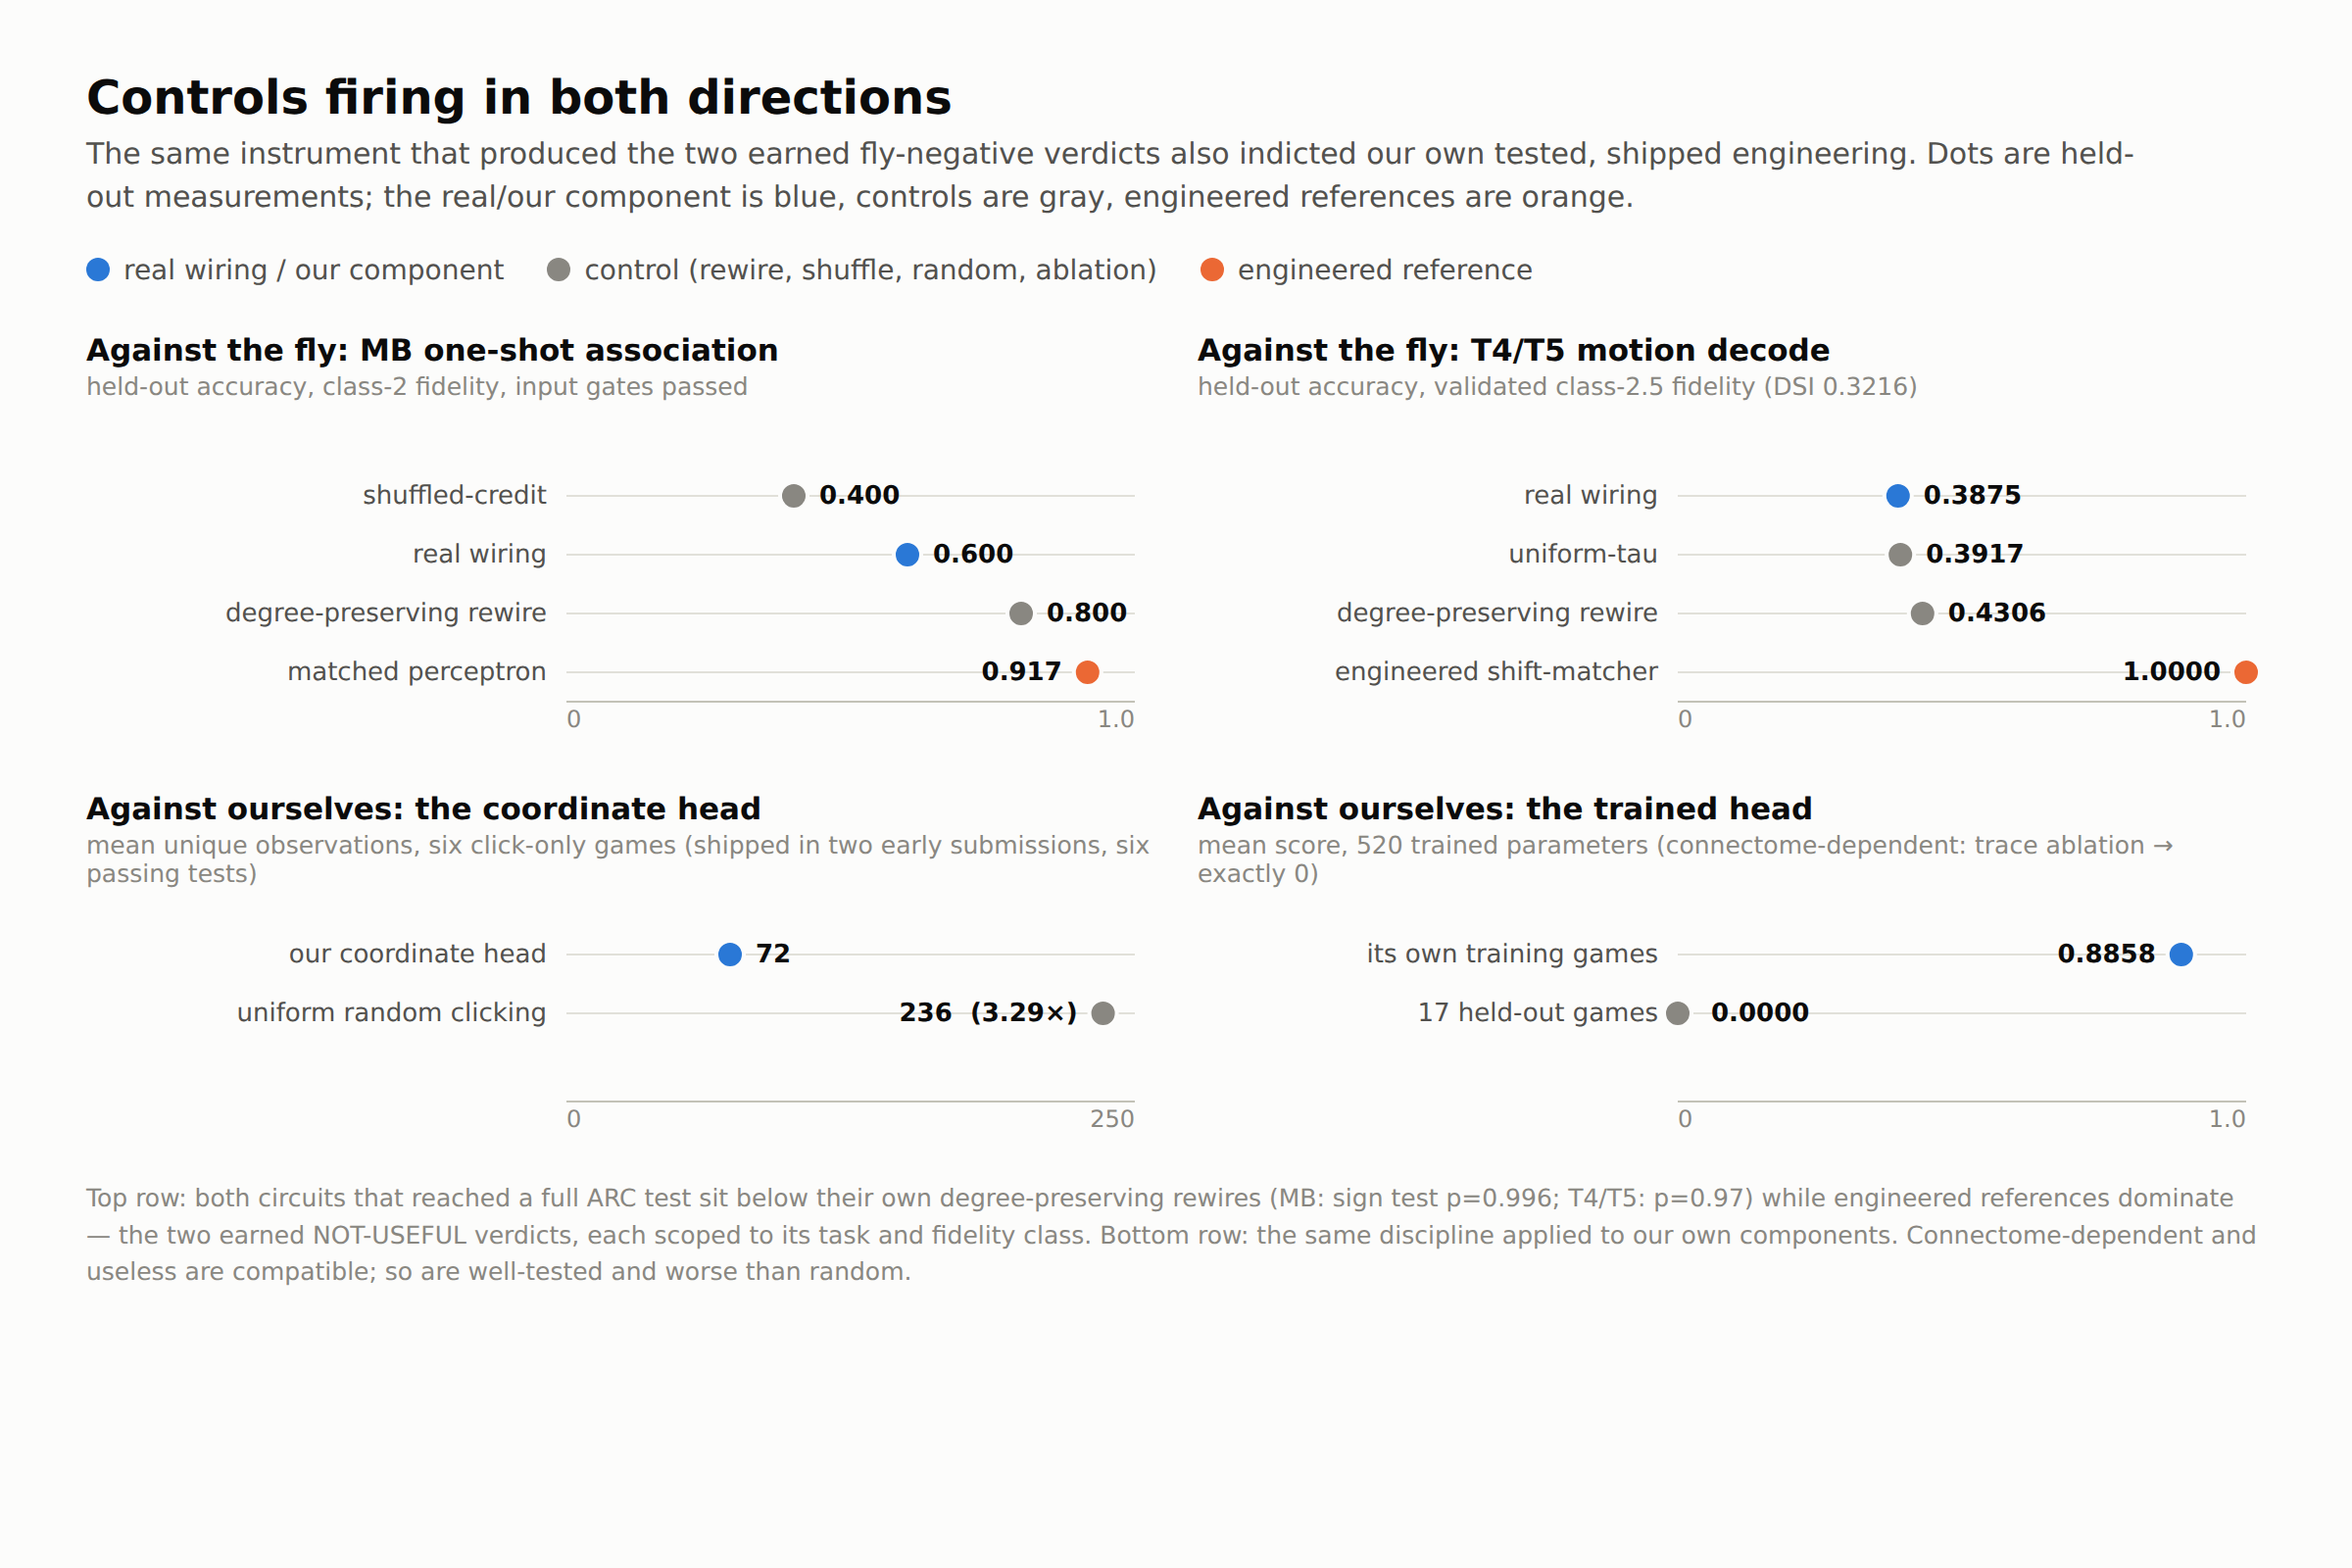
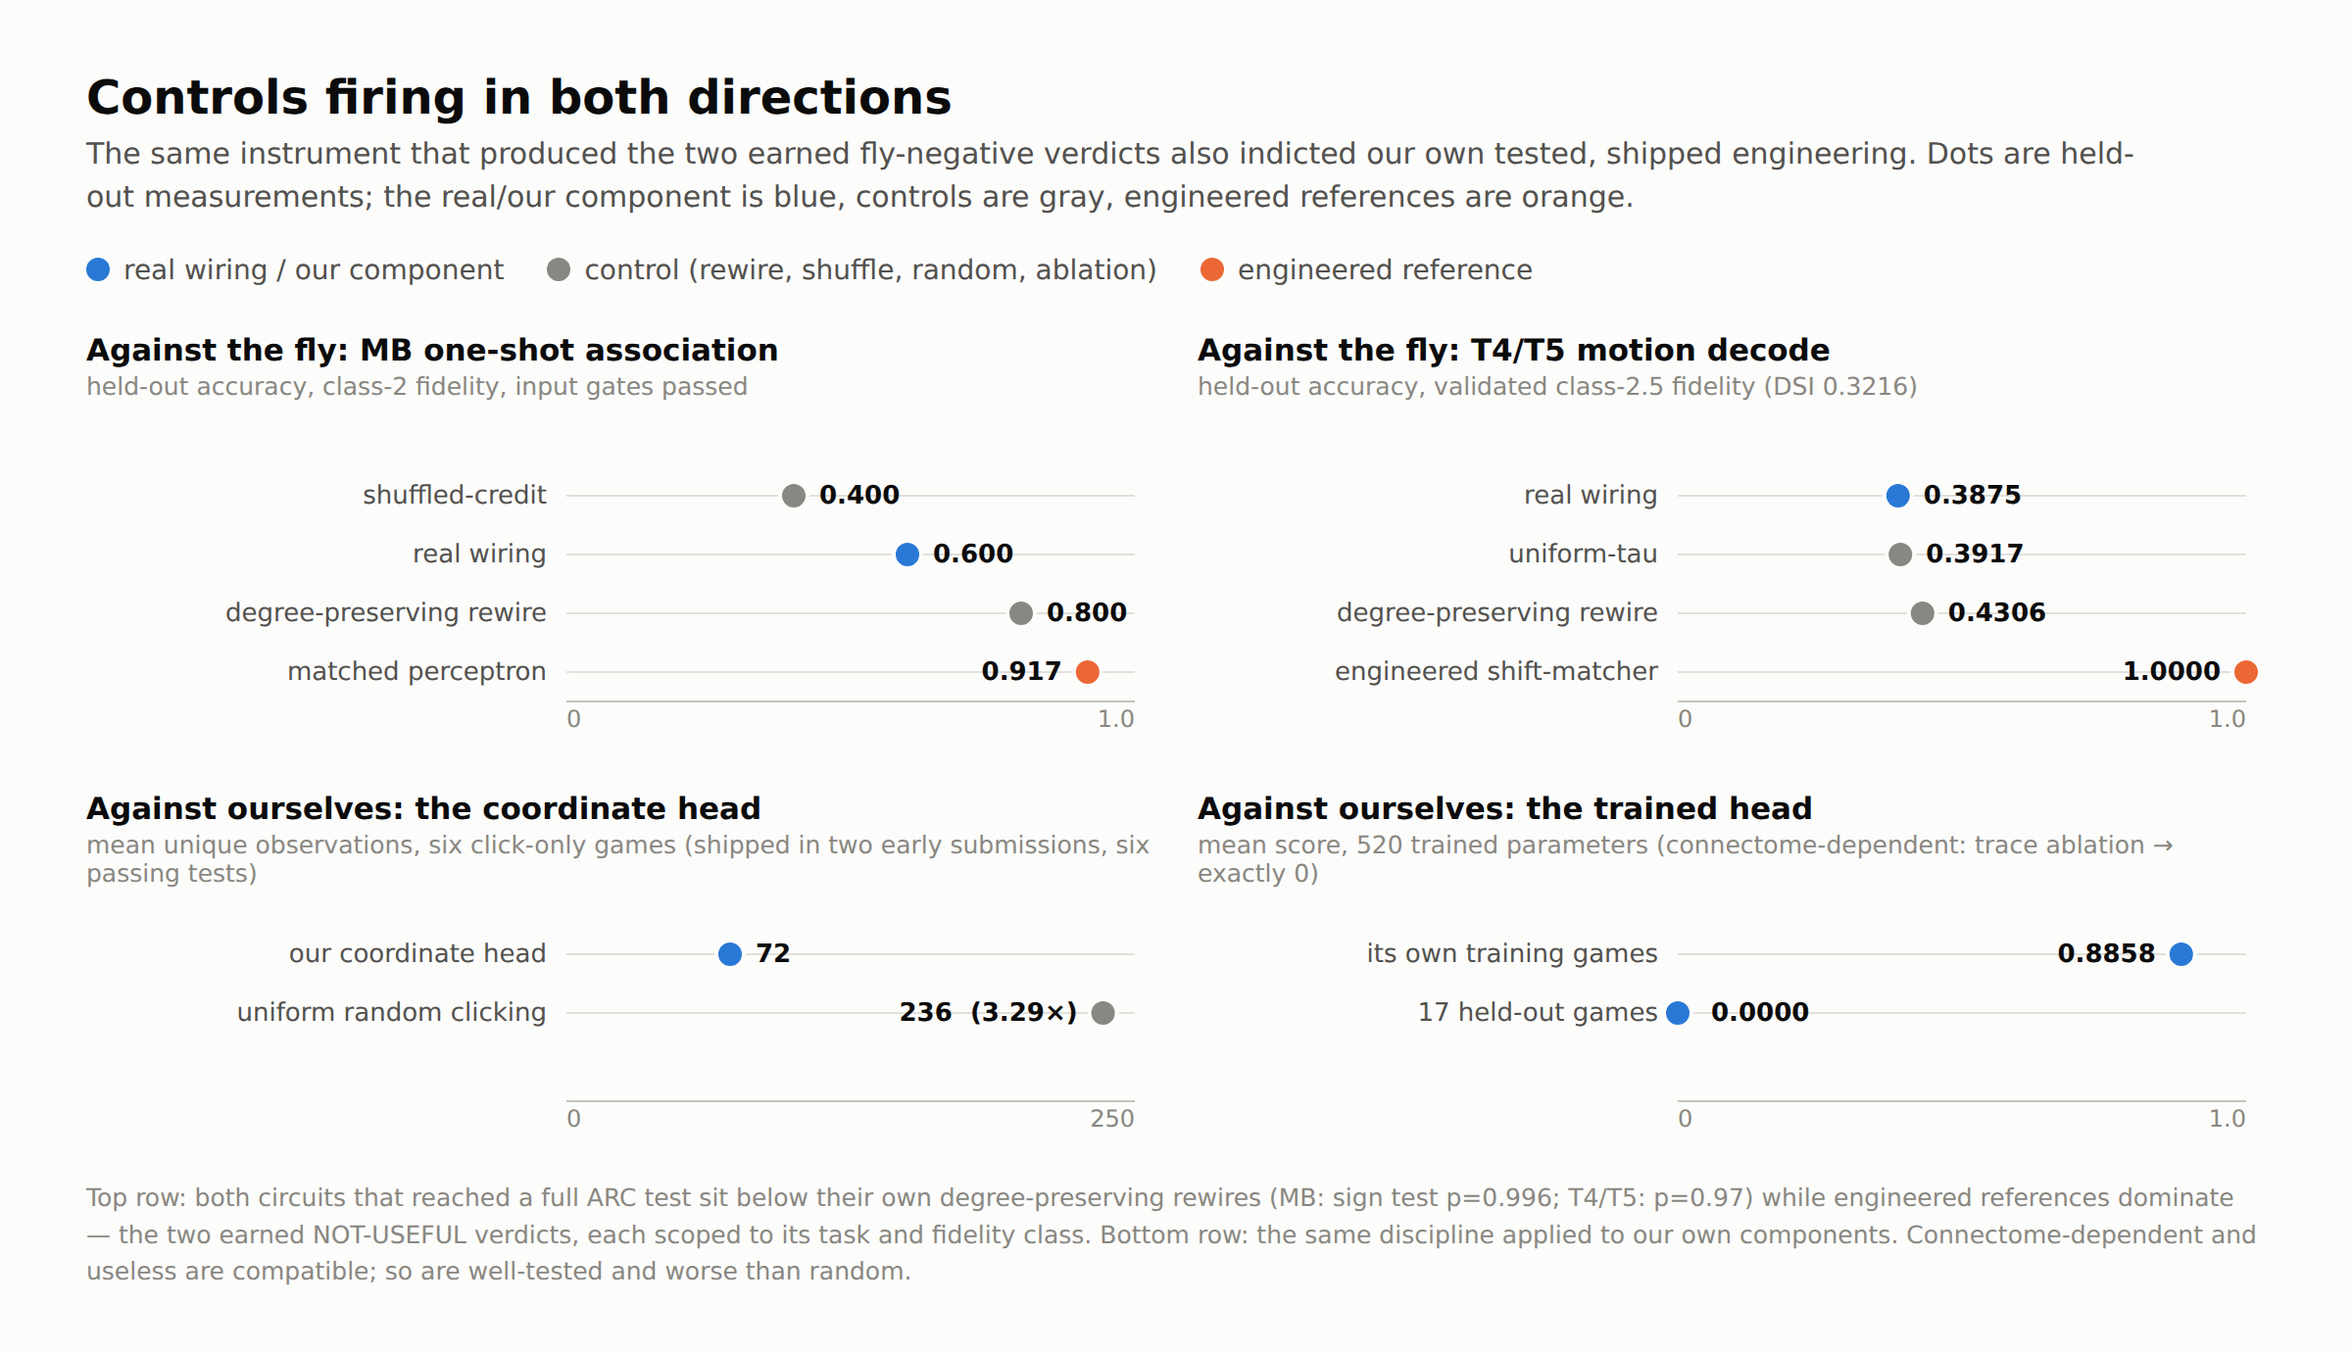
Task 1: quality pass on writeup + visuals -- cover collision fixed, fig3 semantics corrected
Every asset re-eyeballed and every figure number re-traced. The shipped
cover.png had the title wrapping onto the subtitle (collision) since
2026-10-01 -- fixed and re-rendered. fig3's trained-head panel colored
the held-out measurement as a control (gray) against its own legend;
both dots are now blue (both rows are our component), and the dead band
at the canvas bottom is trimmed. fig2's LC count (4,257) now traces to a
factsheet row (EXPERIMENTS.yaml / config / WORKLOG all agree). Writeup:
two ragged source lines rewrapped, zero word changes, body 1,448. fig1,
fig2, the card, and the full writeup text verified clean. Palette passes
the validator except the deliberate recessive-gray control slot
(direct-labeled everywhere; accepted deviation, recorded).

Claude-Session: https://claude.ai/code/session_019EXzPdmzuuxBC3YNVBR9R3

diff --git a/docs/arenas/task1_arc_paper/media/cover.html b/docs/arenas/task1_arc_paper/media/cover.html
@@ -3,8 +3,8 @@
 <style>
   body { margin: 0; width: 1200px; height: 675px; background: #fcfcfb;
          font-family: system-ui, -apple-system, "Segoe UI", sans-serif; color: #0b0b0b; }
-  .t  { position: absolute; left: 90px; top: 48px; font-size: 40px; font-weight: 700; letter-spacing: -0.5px; }
-  .s  { position: absolute; left: 90px; top: 102px; font-size: 19px; color: #52514e; }
+  .t  { position: absolute; left: 90px; top: 44px; font-size: 34px; font-weight: 700; letter-spacing: -0.5px; white-space: nowrap; }
+  .s  { position: absolute; left: 90px; top: 94px; font-size: 18px; color: #52514e; white-space: nowrap; }
   .lab { position: absolute; font-size: 16px; color: #52514e; }
   .num { font-weight: 700; color: #0b0b0b; }
   .floor { position: absolute; left: 90px; top: 574px; width: 1020px; border-top: 1px solid #c3c2b7;

diff --git a/docs/arenas/task1_arc_paper/media/fig3_controls_both_ways.html b/docs/arenas/task1_arc_paper/media/fig3_controls_both_ways.html
@@ -120,7 +120,7 @@
           <line x1="245" x2="535" y1="25" y2="25"/><line x1="245" x2="535" y1="55" y2="55"/>
         </g>
         <circle cx="501.9" cy="25" r="7" fill="#2a78d6" stroke="#fcfcfb" stroke-width="2"/>
-        <circle cx="245" cy="55" r="7" fill="#898781" stroke="#fcfcfb" stroke-width="2"/>
+        <circle cx="245" cy="55" r="7" fill="#2a78d6" stroke="#fcfcfb" stroke-width="2"/>
         <g font-size="13" fill="#0b0b0b" font-weight="600">
           <text x="488.9" y="29" text-anchor="end">0.8858</text>
           <text x="262" y="59">0.0000</text>

diff --git a/WORKLOG.md b/WORKLOG.md
@@ -1,5 +1,35 @@
 # FlyGI durable worklog
 
+## Task 1: quality pass over the writeup + all visual assets -- 2026-10-02
+
+User-directed review ("make sure they're up to snuff"), every rendered
+asset eyeballed and every figure number re-traced to the factsheet.
+Found and fixed:
+
+- COVER BUG (shipping-blocking): the title wrapped to a second line and
+  COLLIDED with the subtitle -- present in the shipped cover.png since
+  2026-10-01. Fixed (one-line title at 34px, subtitle cleared),
+  re-rendered at 2x, eyeballed clean.
+- fig3 semantic fix: in the trained-head panel the held-out measurement
+  was colored GRAY, which the legend defines as "control" -- it is our
+  component's honest held-out score, not a control. Both trained-head
+  dots are now blue per the legend's own definition. Also trimmed the
+  dead band at the canvas bottom (1600 -> 1380 px tall).
+- fig2's "4,257 neurons" (LC) had no factsheet row -- the number is
+  solid (EXPERIMENTS.yaml, literal_rate_lc_readout config, WORKLOG
+  readout table) and now traces: factsheet row added.
+- writeup.md: two ragged source lines from the edit rounds rewrapped
+  (no word changed; body stays 1,448).
+
+Verified clean, no action: fig1 (ladder vs hidden -- all six numbers,
+submission IDs, legend, scope footer), fig2 (all verdict-matrix numbers
+match writeup + factsheet), card.png (legible at thumbnail scale),
+writeup end-to-end read (no seams, boundaries intact). Palette: the
+figure palette passes the dataviz validator's CVD/normal-vision/contrast
+checks; the gray slot intentionally fails the chroma floor because
+controls are DELIBERATELY recessive gray with every dot direct-labeled
+-- recorded as the accepted deviation.
+
 ## Task 1: relicensed to MIT-0 on the user's go -- 2026-10-02
 
 "go MIT-0" (the user, copyright holder). LICENSE is now the MIT No

diff --git a/docs/arenas/task1_arc_paper/writeup.md b/docs/arenas/task1_arc_paper/writeup.md
@@ -75,8 +75,9 @@ Each rung shipped; each scored 0.15, which is what pure abstention earns —
 held three times while the local score grew ~52-fold. The ladder ended
 honestly: an online-search layer failed its preregistered gate, 28.459550
 against the 28.742260 bar, and did not ship — the 28.74 rung is the
-measured local ceiling of this non-LLM track. Before these three: six 0.00s from a construction
-crash, diagnosed from the empty scorecard, not exit codes.
+measured local ceiling of this non-LLM track. Before these three: six
+0.00s from a construction crash, diagnosed from the empty scorecard, not
+exit codes.
 
 ## Result 2 (measured): the fly component is small, real, and bounded
 
@@ -88,8 +89,9 @@ every scored run.**
 
 Locally, against its scrambled-map twin, real retinotopy won where the
 offline premise predicted: r11l completions ran 0.27–0.68x human baseline
-(league scores 0.3064, replicated 0.3058, vs 0.1875 permuted). The boundary travels with the win:
-the same ladder failed its breadth bar, 17 levels vs the champion's 21. The
+(league scores 0.3064, replicated 0.3058, vs 0.1875 permuted). The
+boundary travels with the win: the same ladder failed its breadth bar,
+17 levels vs the champion's 21. The
 eye map's hidden-set contribution was never isolated — no scrambled-map
 control ever ran on Kaggle.
 

diff --git a/docs/arenas/task1_arc_paper/factsheet.md b/docs/arenas/task1_arc_paper/factsheet.md
@@ -57,6 +57,9 @@ L=LEAGUE.md, R=EXPERIMENTS.yaml.
 
 - Eye-map substrate: 23,720 ol_intrinsic lamina/medulla interneurons carry
   the column assignments, spanning 892 occupied retinotopic columns
+- LC lobula-columnar population as scored by the class-1 readout and
+  benchmarks: 4,257 neurons (type prefix "LC"; EXPERIMENTS.yaml, the
+  literal_rate_lc_readout config, and WORKLOG's readout table agree). [W,R]
   (photoreceptors carry none: 0 of 6,098). [W Phase 0]
 - EYE MAP LOAD-BEARING (the one deployed fly component): metric is level-1
   per-completion action cost vs human baseline. Real retinotopic map 2.59x
